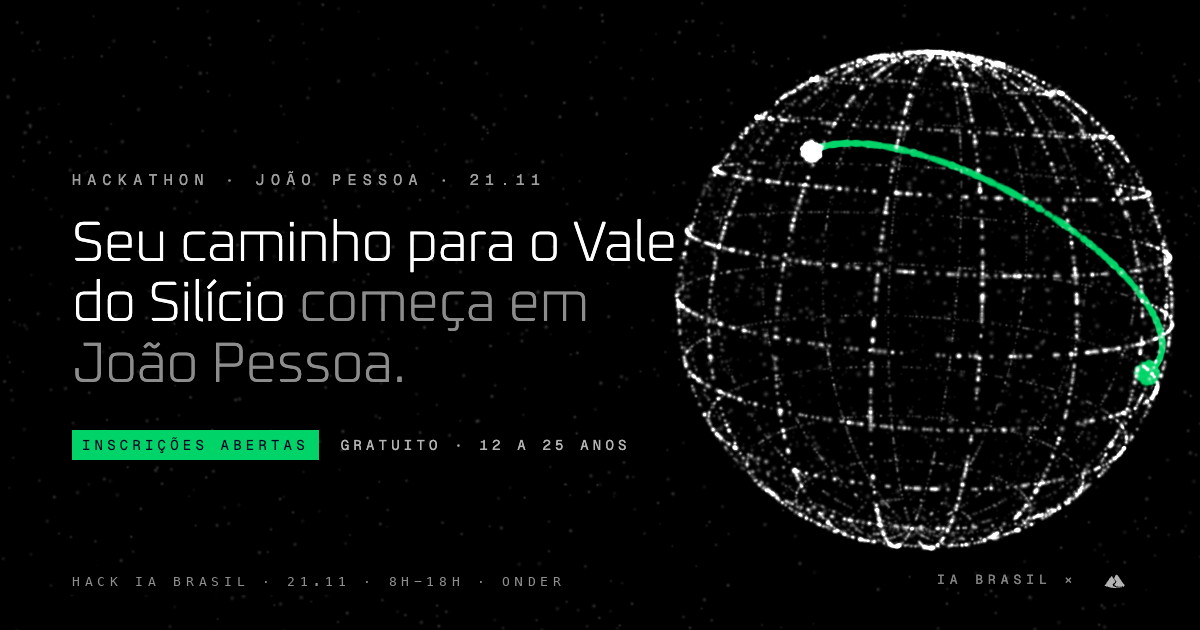
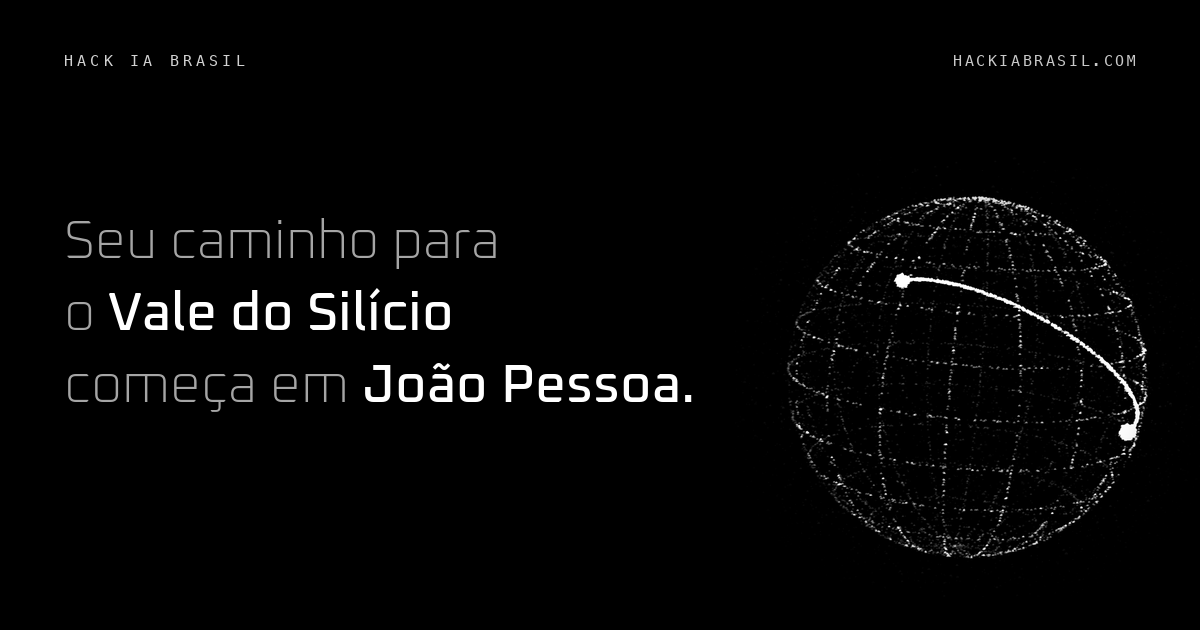
Redo share card, new description, drop leftover blue on Trilha links

diff --git a/src/app/page.tsx b/src/app/page.tsx
@@ -147,7 +147,7 @@ export default function Home() {
                       IA Brasil
                     </a>{" "}
                     ×{" "}
-                    <a href={EVENT.trilhaUrl} target="_blank" rel="noreferrer" className="underline decoration-white/25 underline-offset-4 transition-colors hover:text-[#A0B5FF] hover:decoration-[#A0B5FF]">
+                    <a href={EVENT.trilhaUrl} target="_blank" rel="noreferrer" className="underline decoration-white/25 underline-offset-4 transition-colors hover:decoration-white">
                       Trilha
                     </a>
                   </>
@@ -282,7 +282,7 @@ export default function Home() {
             <a href={EVENT.fellowshipUrl} target="_blank" rel="noreferrer" className="transition-colors hover:text-white">
               conheça a IA Brasil Fellowship ↗
             </a>
-            <a href={EVENT.trilhaUrl} target="_blank" rel="noreferrer" className="transition-colors hover:text-[#A0B5FF]">
+            <a href={EVENT.trilhaUrl} target="_blank" rel="noreferrer" className="transition-colors hover:text-white">
               conheça o Trilha ↗
             </a>
           </div>
@@ -305,7 +305,7 @@ export default function Home() {
             target="_blank"
             rel="noreferrer"
             aria-label="Trilha"
-            className="mx-auto mt-6 block w-fit text-white/80 transition-colors duration-500 hover:text-[#A0B5FF]"
+            className="mx-auto mt-6 block w-fit text-white/80 transition-colors duration-500 hover:text-white"
           >
             <span
               aria-hidden

diff --git a/src/app/layout.tsx b/src/app/layout.tsx
@@ -6,7 +6,7 @@ const geistMono = Geist_Mono({ variable: "--font-geist-mono", subsets: ["latin"]
 const oxanium = Oxanium({ variable: "--font-oxanium", subsets: ["latin"] });
 
 const description =
-  "Um hackathon de 10 horas em João Pessoa. O time vencedor vai direto para a entrevista da IA Brasil Fellowship. Gratuito, para brasileiros de 12 a 25 anos.";
+  "Um hackathon em João Pessoa pode ser a sua ponte para o Vale do Silício. O time vencedor pula etapa na IA Brasil Fellowship. Inscreva-se agora.";
 
 // absolute base for the share images: the production domain in production, the
 // stable branch URL on previews, localhost in dev
